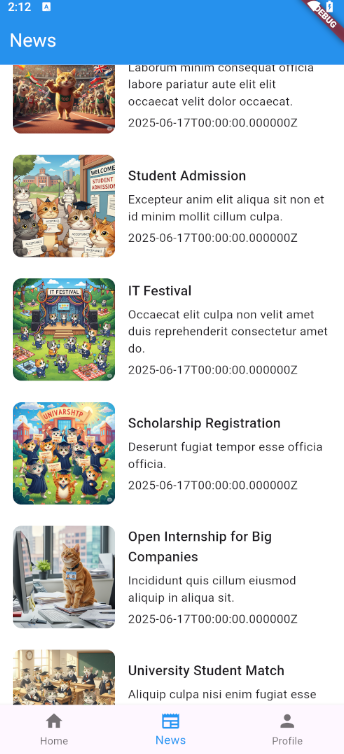
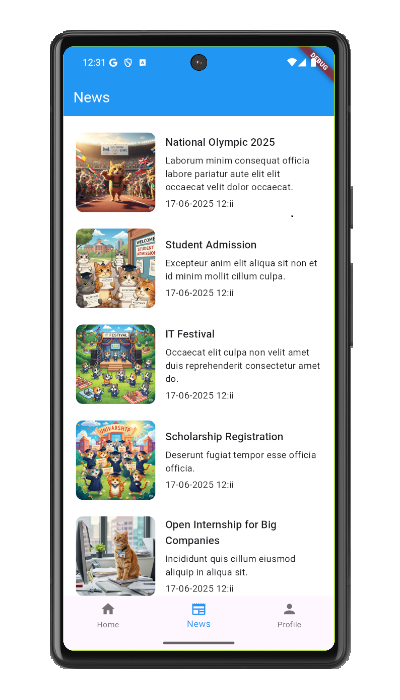
-update readme images -news: fix date format

diff --git a/lib/app/modules/news/views/news_view.dart b/lib/app/modules/news/views/news_view.dart
@@ -1,6 +1,7 @@
 import 'package:flutter/material.dart';
 import 'package:get/get.dart';
 import 'package:infinite_scroll_pagination/infinite_scroll_pagination.dart';
+import 'package:intl/intl.dart';
 import 'package:student_portal/app/modules/news/controllers/news_controller.dart';
 import 'package:student_portal/app/modules/news/models/news.dart';
 import 'package:student_portal/app/routes/app_pages.dart';
@@ -51,7 +52,12 @@ class NewsView extends StatelessWidget {
                                   v(0.5),
                                   Text(item.summary ?? ""),
                                   v(0.5),
-                                  Text(item.updatedAt ?? ""),
+                                  Text(
+                                    item.updatedAt != null
+                                        ? DateFormat("dd-MM-yyyy hh:ii").format(
+                                            DateTime.parse(item.updatedAt!))
+                                        : '',
+                                  ),
                                 ],
                               ),
                             )
